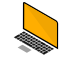
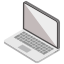
my_portfolio

diff --git a/index.html b/index.html
@@ -28,7 +28,7 @@
     <link rel="stylesheet" href="css/skins/color-5.css" class="alternate-style" title="color-5" disabled>
 
     <!-- FAVICON LINK -->
-    <link rel="shortcut icon" href="img/fotor_2023-3-4_19_37_39.png" type="image/x-icon">
+    <link rel="shortcut icon" href="img/laptop-screen.png" type="image/x-icon">
 
     <!-- ION ICONS -->
     <script type="module" src="https://unpkg.com/ionicons@5.5.2/dist/ionicons/ionicons.esm.js"></script>
@@ -56,7 +56,7 @@
             <i class="ri-close-circle-line icon-mobile-nav close"></i>
         </button>
 
-        <a href="" class="logo">Mark's<img src="img/fotor_2023-3-4_19_37_39.png" alt="" width="50"><span>Tech</span></a>
+        <a href="" class="logo">Mark's<img src="img/laptop-screen.png" alt="" width="40"><span>Tech</span></a>
 
         <nav class="navbar">
             <a href="#home" class="nav nav1">Home</a>
@@ -93,7 +93,7 @@
     <!-- ABOUT SECTION DESIGN -->
     <section class="about" id="about">
         <div class="about_img">
-            <img src="img/272911891_142724354831534_4414606849561333288_n.jpg" alt="">
+            <img src="img/fotor_2023-3-5_3_23_33-removebg-preview.png" alt="">
         </div>
 
         <div class="about_content">
@@ -102,6 +102,18 @@
             <p>I'm a Frontend Web Developer, using cutting edge technologies to develop clean and elegant website. I'm
                 currently working on the web2 field. I love doing research and solving problems especially with my
                 colleagues. I'm more curious to learn, work and have more experience as a Frontend Developer.</p>
+            <div class="footer_links">
+                <a href="mailto:davidojukwu59@gmail.com" target="_blank" class="footer_link">
+                    <i class="ri-mail-line"></i>
+                </a>
+                <a href="https://www.google.com/maps/place/Yusuf+Dambazau+Cres,+901101,+Kubwa,+Federal+Capital+Territory/@9.1523879,7.3498105,17z/data=!3m1!4b1!4m6!3m5!1s0x104dd8d3137436b9:0x6d59dbc6bd2e7088!8m2!3d9.1523879!4d7.3498105!16s%2Fg%2F11h1135y5p"
+                    class="footer_link" target="_blank">
+                    <i class="ri-map-pin-line"></i>
+                </a>
+                <a href="tel:+2349165135178" class="footer_link">
+                    <i class="ri-phone-fill"></i>
+                </a>
+            </div>
             <a href="#contact" class="btn">Let's Talk</a>
         </div>
     </section>
@@ -154,7 +166,8 @@
                     <div class="card swiper-slide">
                         <i class="ri-reactjs-line"></i>
                         <h3>React</h3>
-                        <p>React is a free and open-source front-end JavaScript library for building user interfaces
+                        <p><strong>React</strong> is a free and open-source front-end JavaScript library for building
+                            user interfaces
                             based on components. It is maintained by Meta (formerly Facebook) and a . . .</p>
                         <a href="https://en.wikipedia.org/wiki/React_(JavaScript_library)" target="_blank"
                             class="btn">Read More</a>
@@ -180,7 +193,8 @@
                 <div class="portfolio_layer">
                     <h4>Weather Report</h4>
                     <div>
-                        <a href="https://jomex.netlify.app" target="_blank"><i class="ri-github-line"></i></a>
+                        <a href="https://github.com/markdavid000/weatherreport" target="_blank"><i
+                                class="ri-github-line"></i></a>
                         <a href="https://ojukwu-weather-report.netlify.app" target="_blank"><i
                                 class="ri-external-link-fill"></i></a>
                     </div>
@@ -191,7 +205,8 @@
                 <div class="portfolio_layer">
                     <h4>Calculux</h4>
                     <div>
-                        <a href="https://jomex.netlify.app" target="_blank"><i class="ri-github-line"></i></a>
+                        <a href="https://github.com/markdavid000/calculux-finance" target="_blank"><i
+                                class="ri-github-line"></i></a>
                         <a href="https://calculux-finance.netlify.app" target="_blank"><i
                                 class="ri-external-link-fill"></i></a>
                     </div>
@@ -202,7 +217,8 @@
                 <div class="portfolio_layer">
                     <h4>Github Finder</h4>
                     <div>
-                        <a href="https://jomex.netlify.app" target="_blank"><i class="ri-github-line"></i></a>
+                        <a href="https://github.com/markdavid000/githubfinder" target="_blank"><i
+                                class="ri-github-line"></i></a>
                         <a href="https://mark-githubfinder.netlify.app/" target="_blank"><i
                                 class="ri-external-link-fill"></i></a>
                     </div>
@@ -211,20 +227,23 @@
             <div class="portfolio_box">
                 <img src="img/mobile (3).png" alt="">
                 <div class="portfolio_layer">
-                    <h4>Jomex</h4>
+                    <h4>Blockboard Explorer</h4>
                     <div>
-                        <a href="https://jomex.netlify.app" target="_blank"><i class="ri-github-line"></i></a>
-                        <a href="https://jomex.netlify.app" target="_blank"><i class="ri-external-link-fill"></i></a>
+                        <a href="https://github.com/markdavid000/Block_Board-exp" target="_blank"><i
+                                class="ri-github-line"></i></a>
+                        <a href="https://blockboard-xplorer.vercel.app" target="_blank"><i
+                                class="ri-external-link-fill"></i></a>
                     </div>
                 </div>
             </div>
             <div class="portfolio_box">
                 <img src="img/mobile (4).png" alt="">
                 <div class="portfolio_layer">
-                    <h4>7Seer</h4>
+                    <h4>Shopify</h4>
                     <div>
-                        <a href="https://jomex.netlify.app" target="_blank"><i class="ri-github-line"></i></a>
-                        <a href="https://ojukwu-7seer.netlify.app" target="_blank"><i
+                        <a href="https://github.com/markdavid000/Shopify" target="_blank"><i
+                                class="ri-github-line"></i></a>
+                        <a href="https://cloned-shopify.netlify.app" target="_blank"><i
                                 class="ri-external-link-fill"></i></a>
                     </div>
                 </div>
@@ -234,15 +253,16 @@
                 <div class="portfolio_layer">
                     <h4>Bitrack</h4>
                     <div>
+                        <a href="https://github.com/markdavid000/bitrack" target="_blank"><i
+                                class="ri-github-line"></i></a>
                         <a href="https://bitrack.netlify.app" target="_blank"><i class="ri-external-link-fill"></i></a>
-                        <a href="https://jomex.netlify.app" target="_blank"><i class="ri-github-line"></i></a>
                     </div>
                 </div>
             </div>
         </div>
 
         <div class="portfolio_btn">
-            <a href="https://app.netlify.com/teams/mark-david-ojukwu/sites" target="_blank" class="btn">See More
+            <a href="https://github.com/markdavid000?tab=repositories" target="_blank" class="btn">See More
                 Projects</a>
         </div>
     </section>
@@ -279,9 +299,6 @@
         </div>
     </div>
 
-    <div class="footer_iconTop">
-        <a href="#home"><i class="ri-arrow-up-line"></i></a>
-    </div>
     <!-- FOOTER DESIGN -->
     <footer class="footer">
         <div class="footer_text">
@@ -290,29 +307,9 @@
                 All rights reserved.
             </p>
         </div>
-        <div class="footer_links">
-            <a href="mailto:davidojukwu59@gmail.com" target="_blank" class="footer_link">
-                <svg xmlns="http://www.w3.org/2000/svg" viewBox="0 0 24 24" width="24" height="24">
-                    <path
-                        d="M3 3H21C21.5523 3 22 3.44772 22 4V20C22 20.5523 21.5523 21 21 21H3C2.44772 21 2 20.5523 2 20V4C2 3.44772 2.44772 3 3 3ZM20 7.23792L12.0718 14.338L4 7.21594V19H20V7.23792ZM4.51146 5L12.0619 11.662L19.501 5H4.51146Z">
-                    </path>
-                </svg> Email
-            </a>
-            <a href="https://www.google.com/maps/place/Yusuf+Dambazau+Cres,+901101,+Kubwa,+Federal+Capital+Territory/@9.1523932,7.3472356,17z/data=!3m1!4b1!4m6!3m5!1s0x104dd8d3137436b9:0x6d59dbc6bd2e7088!8m2!3d9.1523879!4d7.3498105!16s%2Fg%2F11h1135y5p"
-                class="footer_link" target="_blank">
-                <svg xmlns="http://www.w3.org/2000/svg" viewBox="0 0 24 24" width="24" height="24">
-                    <path
-                        d="M12 20.8995L16.9497 15.9497C19.6834 13.2161 19.6834 8.78392 16.9497 6.05025C14.2161 3.31658 9.78392 3.31658 7.05025 6.05025C4.31658 8.78392 4.31658 13.2161 7.05025 15.9497L12 20.8995ZM12 23.7279L5.63604 17.364C2.12132 13.8492 2.12132 8.15076 5.63604 4.63604C9.15076 1.12132 14.8492 1.12132 18.364 4.63604C21.8787 8.15076 21.8787 13.8492 18.364 17.364L12 23.7279ZM12 13C13.1046 13 14 12.1046 14 11C14 9.89543 13.1046 9 12 9C10.8954 9 10 9.89543 10 11C10 12.1046 10.8954 13 12 13ZM12 15C9.79086 15 8 13.2091 8 11C8 8.79086 9.79086 7 12 7C14.2091 7 16 8.79086 16 11C16 13.2091 14.2091 15 12 15Z">
-                    </path>
-                </svg> Location
-            </a>
-            <a href="tel:+2349165135178" class="footer_link">
-                <svg xmlns="http://www.w3.org/2000/svg" viewBox="0 0 24 24" width="24" height="24">
-                    <path
-                        d="M21 16.42V19.9561C21 20.4811 20.5941 20.9167 20.0705 20.9537C19.6331 20.9846 19.2763 21 19 21C10.1634 21 3 13.8366 3 5C3 4.72371 3.01545 4.36687 3.04635 3.9295C3.08337 3.40588 3.51894 3 4.04386 3H7.5801C7.83678 3 8.05176 3.19442 8.07753 3.4498C8.10067 3.67907 8.12218 3.86314 8.14207 4.00202C8.34435 5.41472 8.75753 6.75936 9.3487 8.00303C9.44359 8.20265 9.38171 8.44159 9.20185 8.57006L7.04355 10.1118C8.35752 13.1811 10.8189 15.6425 13.8882 16.9565L15.4271 14.8019C15.5572 14.6199 15.799 14.5573 16.001 14.6532C17.2446 15.2439 18.5891 15.6566 20.0016 15.8584C20.1396 15.8782 20.3225 15.8995 20.5502 15.9225C20.8056 15.9483 21 16.1633 21 16.42Z">
-                    </path>
-                </svg> 09165135178
-            </a>
+
+        <div class="footer_iconTop">
+            <a href="#home"><i class="ri-arrow-up-line"></i></a>
         </div>
     </footer>
 

diff --git a/css/style.css b/css/style.css
@@ -300,9 +300,13 @@ span {
   padding-bottom: 7rem;
 }
 
+.about_img {
+  width: 100%;
+}
+
 .about_img img {
   width: 100%;
-  height: 100%;
+  height: 500px;
   border-radius: 50%;
   box-shadow: 0 0 1rem var(--main-color);
   animation: floatImage 2s ease-in-out infinite;
@@ -578,12 +582,6 @@ span {
   font-size: 1.6rem;
 }
 
-.footer_iconTop {
-  display: flex;
-  justify-content: end;
-  padding: 3rem 5%;
-}
-
 .footer_iconTop a {
   display: inline-flex;
   justify-content: center;
@@ -623,41 +621,31 @@ span {
 
 .footer_links {
   display: flex;
-  gap: 4rem;
+  gap: 3rem;
+  margin-bottom: 3rem;
 }
 
 .footer_link {
-  display: flex;
+  display: inline-flex;
+  justify-content: center;
   align-items: center;
-  font-size: 1.2rem;
-  gap: 0.5rem;
-  color: var(--text-color);
-  transition: all 0.4s ease-in-out;
-}
-
-.light-mode .footer_link:hover,
-.light-mode .footer_link:hover svg path {
+  width: 4rem;
+  height: 4rem;
+  background: transparent;
+  border: 0.2rem solid var(--main-color);
+  border-radius: 50%;
+  font-size: 2rem;
   color: var(--main-color);
-  fill: var(--main-color);
+  box-shadow: 0 0 1rem var(--main-color);
+  margin: 1.5rem 1.5rem 1.5rem 0 !important;
+  transition: all 0.5s ease;
 }
 
-.footer_link:hover,
-.footer_link:hover svg path {
-  color: var(--main-color);
-  fill: var(--main-color);
-}
-
-.light-mode .footer_link {
-  color: var(--bg-color);
-}
-
-.footer_link svg path {
-  fill: #fff;
-  transition: all 0.4s ease-in-out;
-}
-
-.light-mode .footer_link svg path {
-  fill: #000;
+.footer_link:hover {
+  background-color: var(--main-color);
+  color: var(--second-bg-color);
+  box-shadow: 0 0 1rem var(--main-color);
+  transform: rotate(360deg);
 }
 
 /* LOADER STYLE */
@@ -682,7 +670,8 @@ span {
 
 .wlc_txt {
   font-size: 4rem !important;
-  -webkit-box-reflect: below 1px linear-gradient(transparent, #0000002c);
-  line-height: 0.7em;
+  text-align: center;
+  -webkit-box-reflect: below 1px linear-gradient(transparent, #0000001f);
+  line-height: 1em;
   text-shadow: 0 0 10px #fff, 0 0 20px #fff;
 }

diff --git a/js/app.js b/js/app.js
@@ -92,7 +92,12 @@ const typed = new Typed('.multiple_text', {
 });
 
 const type = new Typed('.wlc_txt', {
-  strings: ['WELCOME!'],
+  strings: [
+    'WELCOME TO MY PORTFOLIO',
+    'Where design meets code',
+    'and',
+    'User experience meets functionality',
+  ],
   typeSpeed: 100,
   backSpeed: 100,
   backDelay: 1000,
@@ -115,5 +120,5 @@ window.addEventListener('load', () => {
     loader.addEventListener('transitionend', () => {
       document.body.removeChild(loader);
     });
-  }, 5000);
+  }, 22000);
 });

diff --git a/css/style-switcher.css b/css/style-switcher.css
@@ -29,8 +29,8 @@
   cursor: pointer;
   transition: all 0.3s ease;
   background: var(--alpha-color);
-  width: 30px;
-  height: 30px;
+  width: 35px;
+  height: 35px;
   border-radius: 50%;
   backdrop-filter: blur(5px);
   transition: all 0.5s ease-in;
@@ -41,7 +41,7 @@
 }
 
 .font {
-  font-size: 2rem !important;
+  font-size: 2.5rem !important;
   color: var(--text-color);
   margin-top: 5px;
   transition: all 0.5s ease-in;

diff --git a/css/query.css b/css/query.css
@@ -144,17 +144,15 @@
   section {
     min-height: 80vh;
   }
-
-  .footer {
-    flex-direction: column-reverse;
-    justify-content: center;
-    gap: 3rem;
-  }
 }
 
 @media (max-width: 450px) {
   html {
     font-size: 50%;
+  }
+
+  .footer {
+    flex-direction: column-reverse;
   }
 
   .footer_text p {
